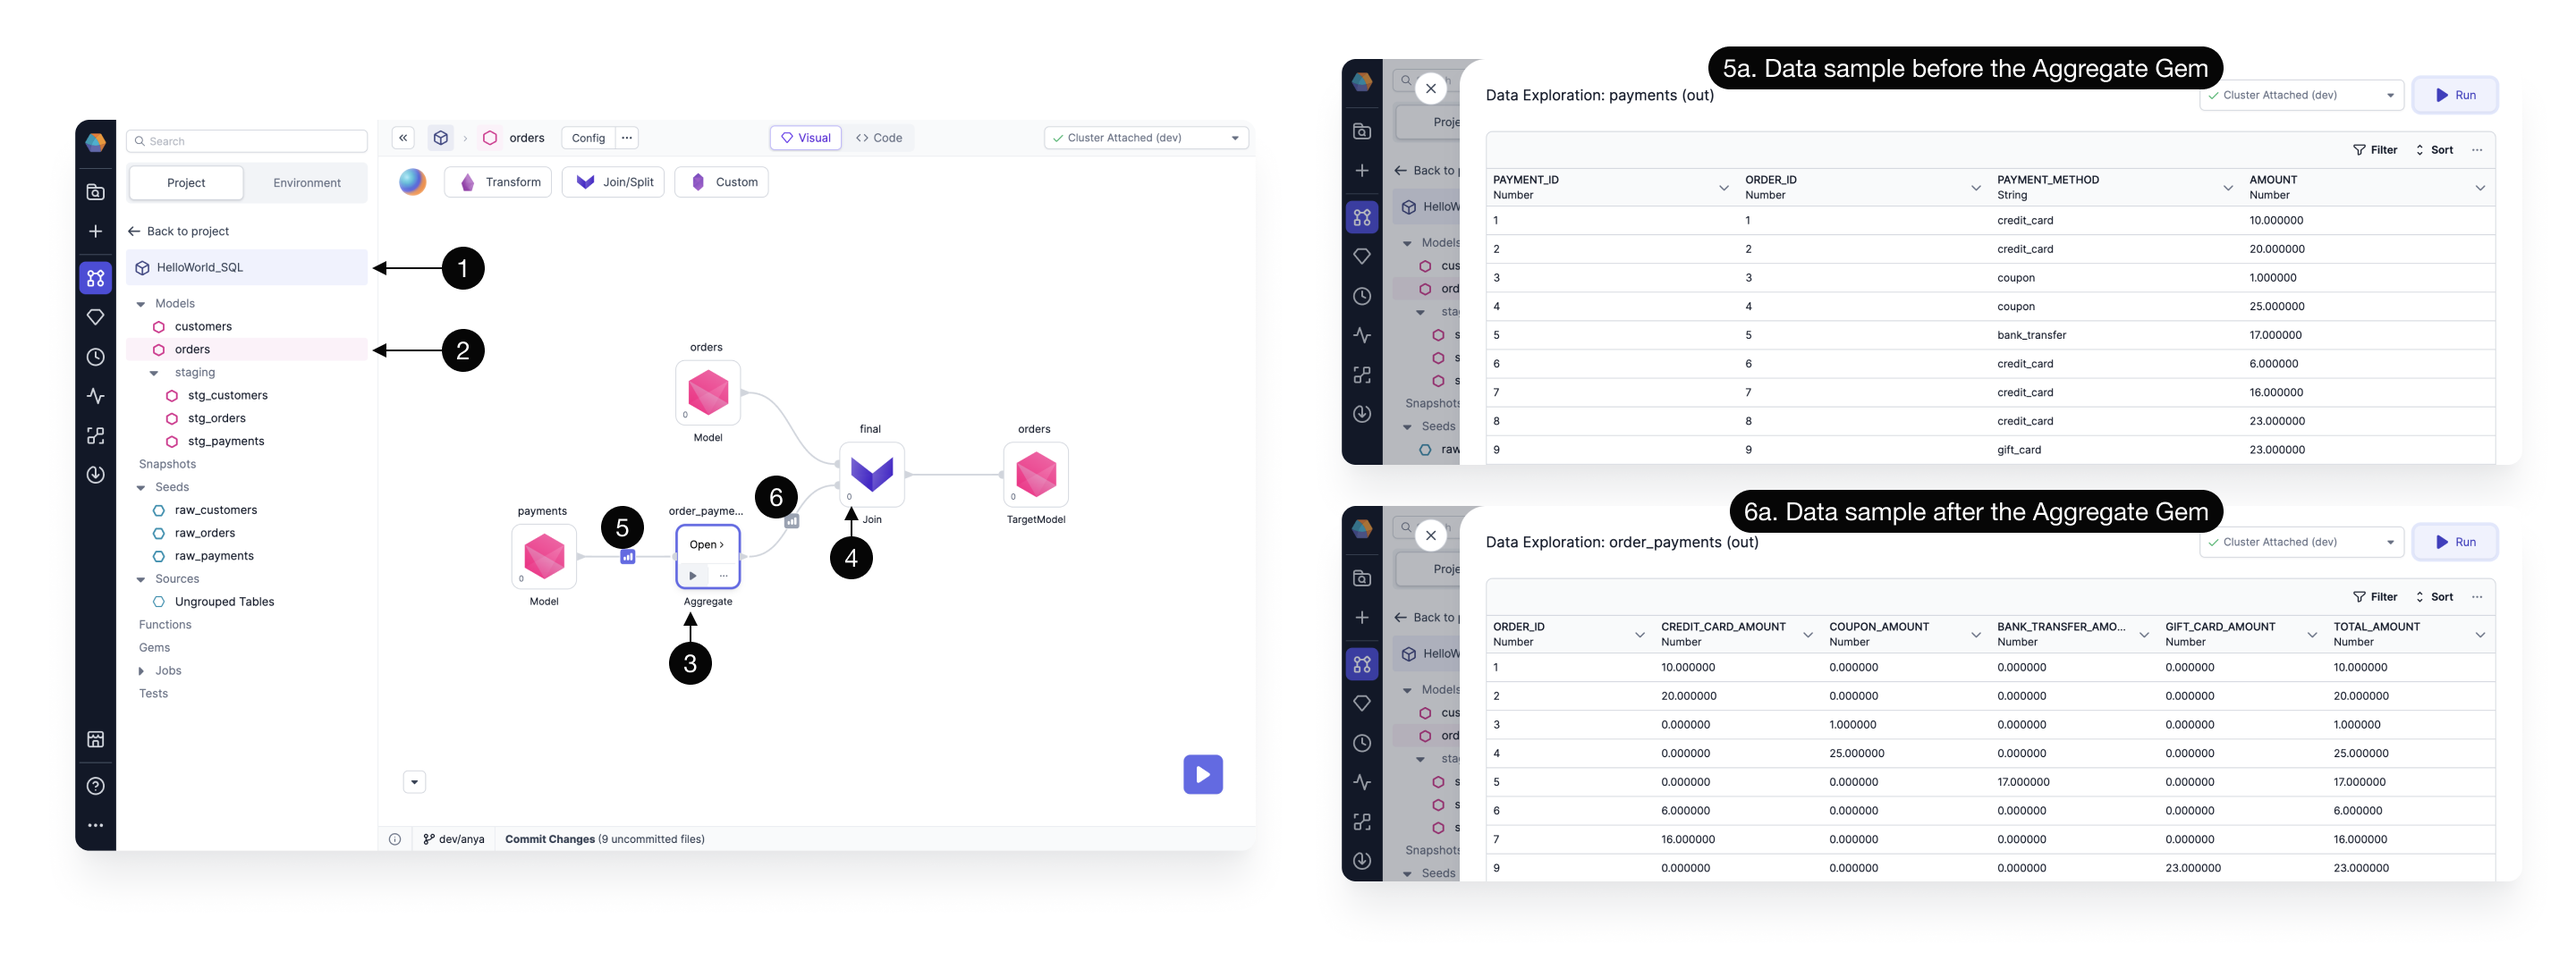
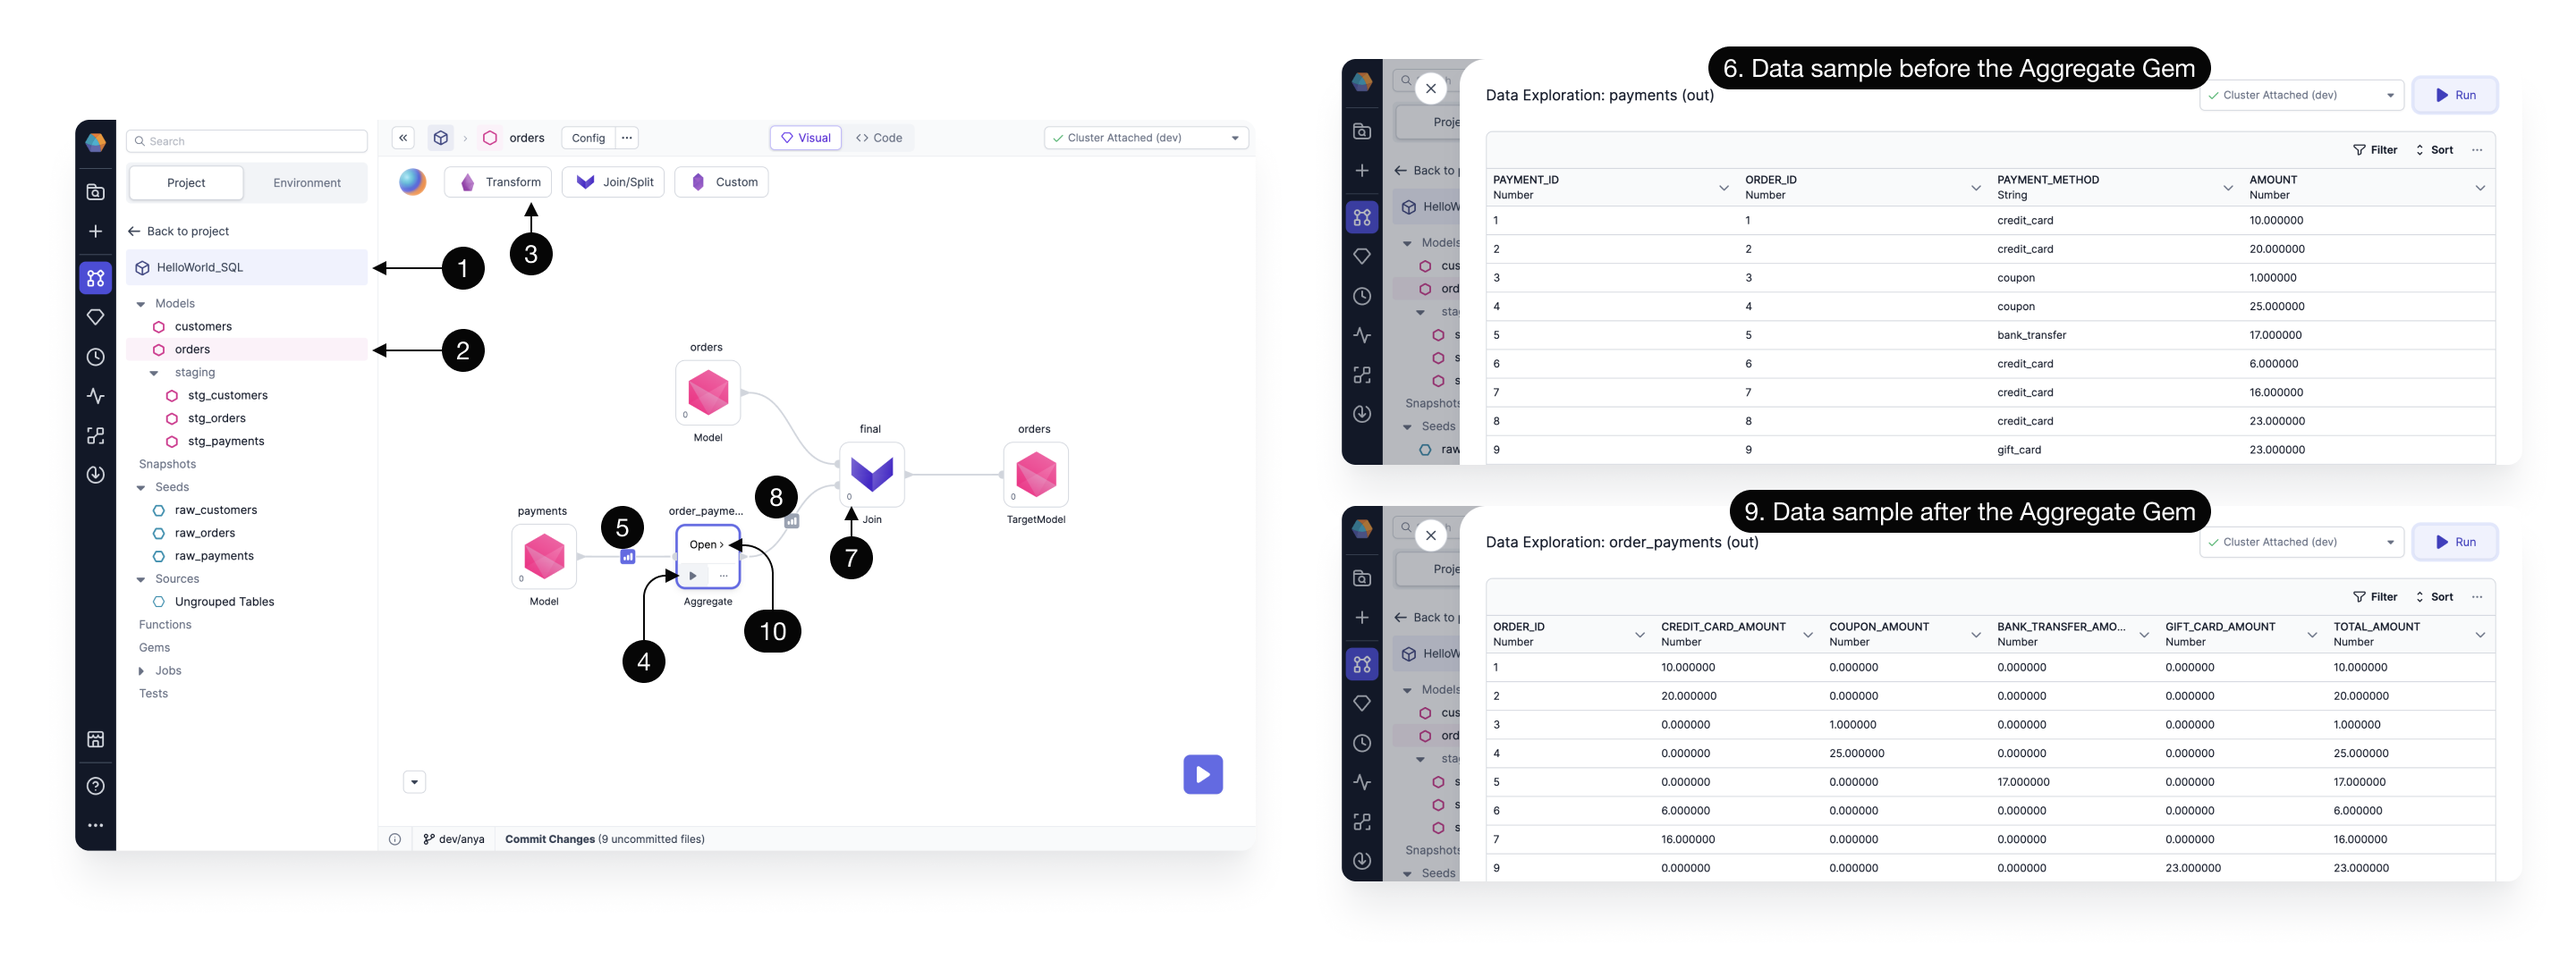
updated the aggregate SQL page

diff --git a/docs/low-code-sql/development/gems/Transformations/aggregate.md b/docs/low-code-sql/development/gems/Transformations/aggregate.md
@@ -14,14 +14,63 @@ tags:
 Together let's build an Aggregate Gem. Follow along in the `HelloWorld_SQL` Project.
 
 ![1](../img/Snow4.6.1_Aggregate.png)
+
+1. **Open** the HelloWorld_SQL [Project](https://app.prophecy.io/metadata).
+2. From the list of Models, select the **Orders** Model. A Model is a series of transformation steps (Gems) that describe how to create a single table or view. The Orders Model defines the steps to create the Orders table.
+3. Open the **Transformation** dropdown to see the available Transformation Gems. The Aggregate Gem has already been dragged to the canvas and configured in this HelloWorld_SQL example.
+
+Let's explore the Aggregate Gem by checking the input and output data samples, and then check how the Aggregate Gem is configured.
+
+4. Click the arrow to **Run upto the Aggregate Gem**.
+5. Preview a **data sample** before the Aggregate Gem.
+6. This is the `payments` data sample before the Aggregate Gem. There is one row per payment.
+7. Click to **Run upto the Join Gem**.
+8. Preview a **data sample** after the Aggregate Gem.
+9. This is the `order_payments` data sample after the Aggregate Gem. The individual rows of `payments` have been grouped according to `ORDER_ID`, and the amounts have been summed according to the payment type.
+10. Let's see how the Aggregate Gem is configured. Click to **Open**.
+
 ![2](../img/Snow4.6.2_Aggregate.png)
+
+1. There is one **Input** Dataset, `payments`, and we can see the columns and datatypes below.
+2. Open the **Group By** tab.
+3. We can see the Gem is configured to group according to the `order_id` column. Just click any column name listed in **(1) Input** to add a column to the GroupBy expressions.
+4. Syntax **errors** are surfaced here as you're desiging your Gem (and Model) on the canvas. That's handy so you don't have to run a Job to discover a typo.
+5. The **Run** button is available here to test and view data samples. This way you can make sure your Aggregate Gem is configured as desired.
+
+Next we'll walk through the Aggregate tab, where we have a lot more bells and knobs to turn.
+
 ![3](../img/Snow4.6.3_Aggregate.png)
+
+1. Click the **Aggregate** tab, where we'll define our new column names and data manipulation expressions.
+2. The list of **Expressions** describe how to manipulate a particular column from the input Dataset.
+3. The list of **Target Columns** is the list of column names to be manipulated by the Aggregate Gem and included in the Gem's output.
+4. Click **Output** to see the schema of the Dataset resulting from the Aggregate Gem.
+
+Let's go through several columns to see how the Aggregate Gem manipulates each column.
+
+5. The `order_id` column is getting passed through the Aggregate step without being changed. Recall this is the column that will be used to group the data. To add any column, just click the column name from the Input list, or start typing the column name and Prophecy Copilot will provide suggestions.
+6. Since the `order_id` column was (5) selected, then this column appears in the output Dataset. It has a number datatype.
+7. Here is an **expression** that includes some data manipulation logic. The amount is summed according to the payment method. `payment_method` is being passed as a configurable variable surrounded by curly braces `{{ }}`. We'll see how to configure the variables `credit_card`, `coupon`, `bank_transfer`, `gift_card` in the next section.
+8. These are the **output columns** according to the (3)Target Column. `{{ payment_method }}` is a configurable parameter, and each of the payment methods (eg GIFT_CARD) has been appended with the string `amount`. Now we are starting to see how the data sample output from the Aggregate Gem will be constructed.
+9. Let's **AskAI** to help write a new expression. Type "Calculate customer size based on the amount purchased." Copilot AI generates a SQL expression and we can keep or reject the suggestion.
+10. The new expression will be reflected in the Aggregate Gem output, `CUSTOMER_SIZE` column.
+
+Now let's see how to configure the `payment_methods` variable.
+
 ![4](../img/Snow4.6.4_Aggregate.png)
+
+1. Click **Config** to open the configuration screen.
+2. We see the option to apply a configuration at several different **levels:** apply to the entire Model, all the Models in the Github folder, or all the Models in the Project. Here we can see there are Configurations that apply to this particular `Orders` Model.
+3. See the list of [**DBT Defined Configs**](https://docs.getdbt.com/reference/configs-and-properties). These are configs every user could employ with their DBT Projects, such as whether to materialize the model as table, view, ephemeral, or incremental. Click the dropdown to select the config of interest, then enter the appropriate value. Hover over the "i" icon for a short description of each DBT Config.
+4. See the list of user-defined **Variables**. In our HelloWorld_SQL project, the `payment_methods` variable has been defined with the four **values** shown.
+5. Click **Save** after editing the Config for the Model, Folder, or Project.
+
+Click the code view to see the Config encoded in the `dbt_project.yml` file or the `schema.yml/properties.yml` file. Further information can be found in DBT documentation, as Prophecy's Model Config is based on DBT's [Model Configurations](https://docs.getdbt.com/reference/model-configs).
+
+Using Config variables (and DBT Defined Configs) within a Gem is easy. Just wrap the variable name (eg `payment_method`) in curly braces `{{ }}` like this: `{{ payment_method }}`.
+
+Here we used the Aggregate Gem from the HelloWorld_SQL Project as a learning guide. What types of Aggregations will you build? [Reach out](/docs/getting-started/getting-help.md) with questions and to let us know how you're using Prophecy.
 
 :::info
 To learn more about the Aggregate Gem UI, see [this page](/docs/concepts/project/gems.md) which illustrates features common to all Gems.
 :::
-
-## Run
-
-When you're ready to see how your Aggregate Gem works, **() Run** interactively to view **()[sample data](../../interactive-development/data-explorer.md).**

diff --git a/docs/getting-started/getting-started-sql-snowflake.md b/docs/getting-started/getting-started-sql-snowflake.md
@@ -282,7 +282,7 @@ Note: dragging a source will prompt Copilot to suggest seeds and sources. Seeds 
 
 #### 4.4.2 Option to define the Join
 
-If the suggested Gems are not exactly what we need, we can just drag-and-drop components to the canvas and fill in the business logic. Sometimes we'll want to specify the **Join** transformation by changing the Copilot suggestion or creating our own.
+If the suggested Gems are not exactly what we need, we can just drag-and-drop components to the canvas and fill in the business logic. Sometimes we'll want to specify the **Join** transformation by changing the Copilot suggestion or creating our own. Check [here](/docs/low-code-sql/development/gems/joins.md) for details on configuring Join Gems.
 
 #### 4.4.3 Aggregate with Copilot suggestions
 
@@ -305,6 +305,8 @@ Let's define an english prompt explaining the [**next best step**](#4.4.3.1-next
 <script src="https://fast.wistia.net/assets/external/E-v1.js" async></script>
 
 #### 4.4.3.3 Option to define the Aggregate logic
+
+TODO: replace with [this](low-code-sql/development/gems/Transformations/aggregate.md)
 
 Of course it's always possible to define transformations in the easy-to-use interface. Here let’s define the transformation logic for our **Aggregate** Gem, which will sum up the number of customers within each of the geographical locations and return a clean set of columns.
 
